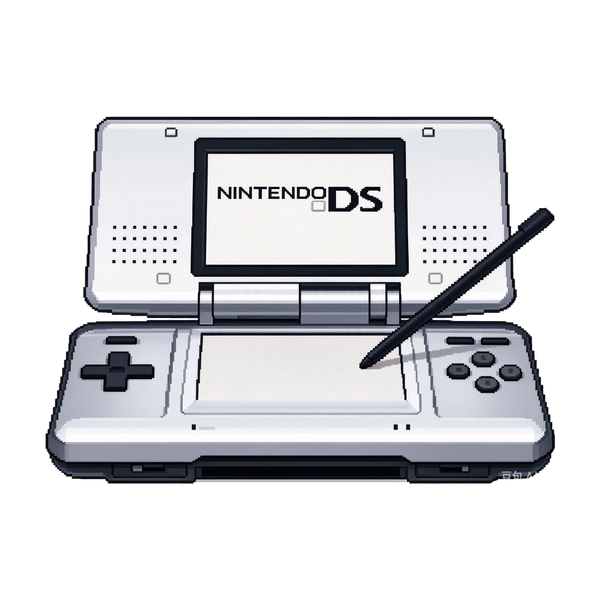
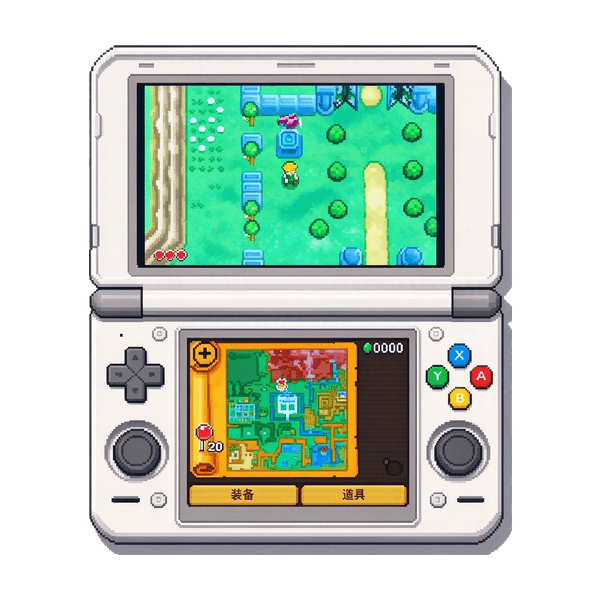
feat(assets): 替换 GB、NDS 平台插画
- GB 换成初代砖头机（原素材其实是紫色的 Game Boy Color，与 GBC 卡片混淆）
- NDS 换成双屏实机（上屏游戏画面 + 下屏地图/道具栏）
- 两张源图是白底 JPEG，用边缘连通泛洪抠成透明底：只清除与画布四边连通的
  近白像素，机身内部的白色不受影响，接缝处再按与纯白的接近程度降透明度去白边
- 按内容包围盒裁切、等比缩放到最长边 510px，居中放进 600×600 透明画布，
  与其余 8 张的留白比例一致
- 平台默认图地址加 ?v=<mtime>，静态图缓存 7 天也能在换图后立刻更新

diff --git a/server/assets.js b/server/assets.js
@@ -59,7 +59,15 @@ const BASE_SLOTS = [
 const PLATFORM_ART_DEFAULTS = Object.fromEntries(
   PLATFORMS.map((p) => {
     const file = path.join(PLATFORM_ART_DIR, `${p.id}.png`);
-    return [`platform_${p.id}`, fs.existsSync(file) ? `/platform-art/${p.id}.png` : ''];
+    if (!fs.existsSync(file)) return [`platform_${p.id}`, ''];
+    // 静态图缓存 7 天，带一个基于文件修改时间的版本号，换图后浏览器才会重新取
+    let v = '';
+    try {
+      v = `?v=${Math.round(fs.statSync(file).mtimeMs).toString(36)}`;
+    } catch {
+      /* 取不到 mtime 就退回无参地址 */
+    }
+    return [`platform_${p.id}`, `/platform-art/${p.id}.png${v}`];
   }).filter(([, url]) => url),
 );
 
